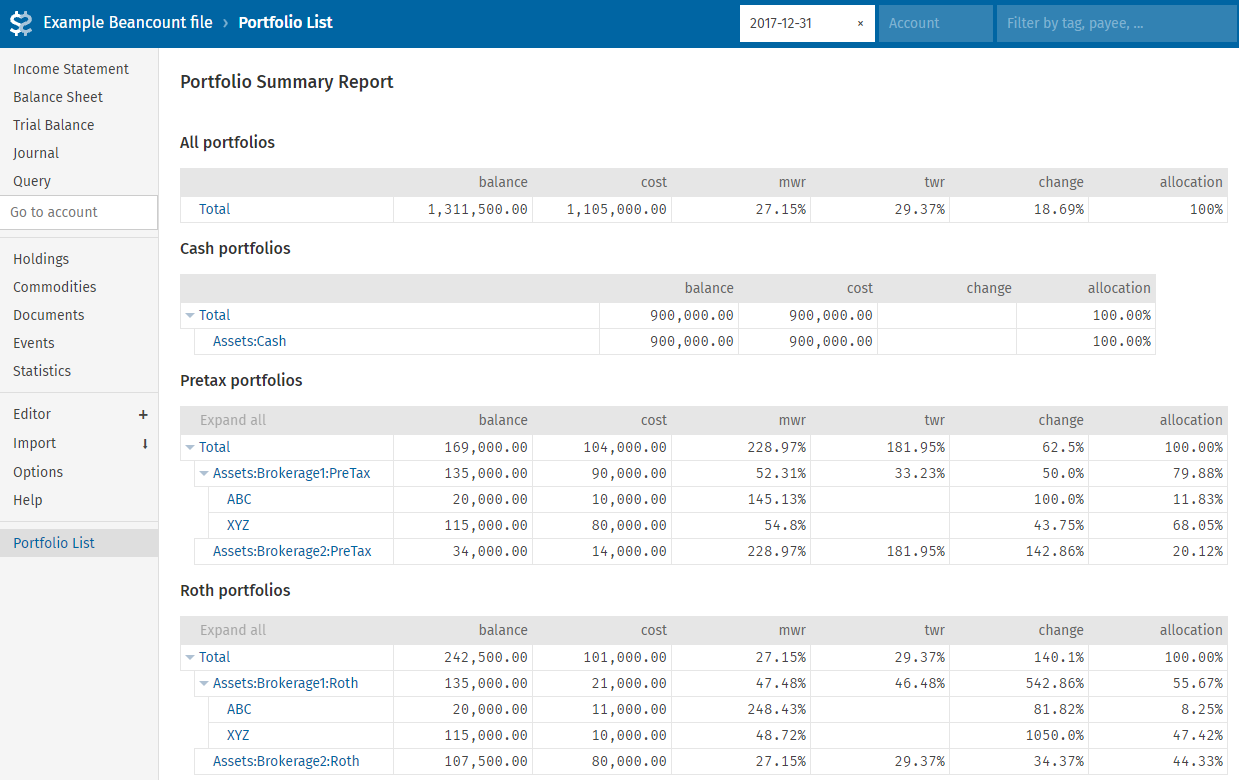
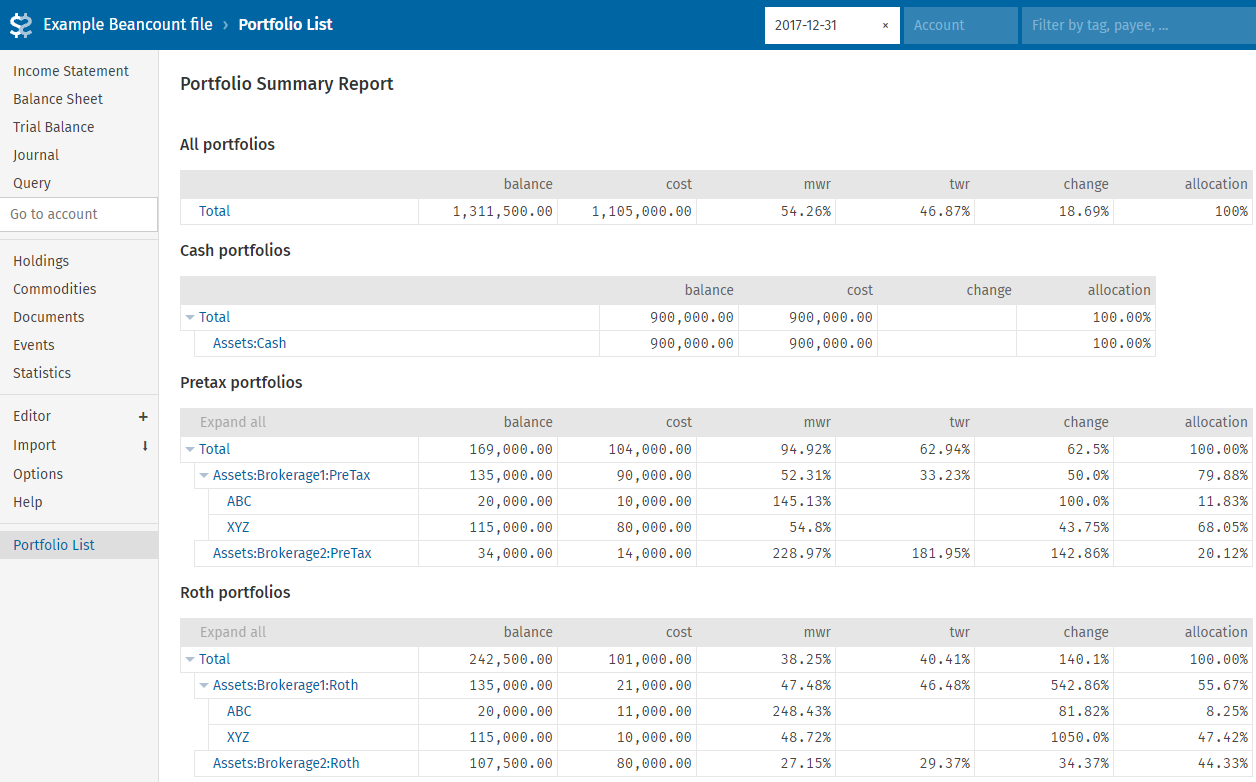
Fix bug using multiple patterns

diff --git a/irr.py b/irr.py
@@ -229,7 +229,7 @@ class IRR:
             self.internal_patterns = re.compile(fr'^(?:{ "|".join(internal_patterns) })$')
         else:
             self.internal_patterns = re.compile('^$')
-        self.patterns = re.compile(fr'^(?:{ "|".join(patterns) })$''|'.join(patterns))
+        self.patterns = re.compile(fr'^(?:{ "|".join(patterns) })$')
 
         elapsed[1] = time.time()
         only_txns = beancount.core.data.filter_txns(self.all_entries)
